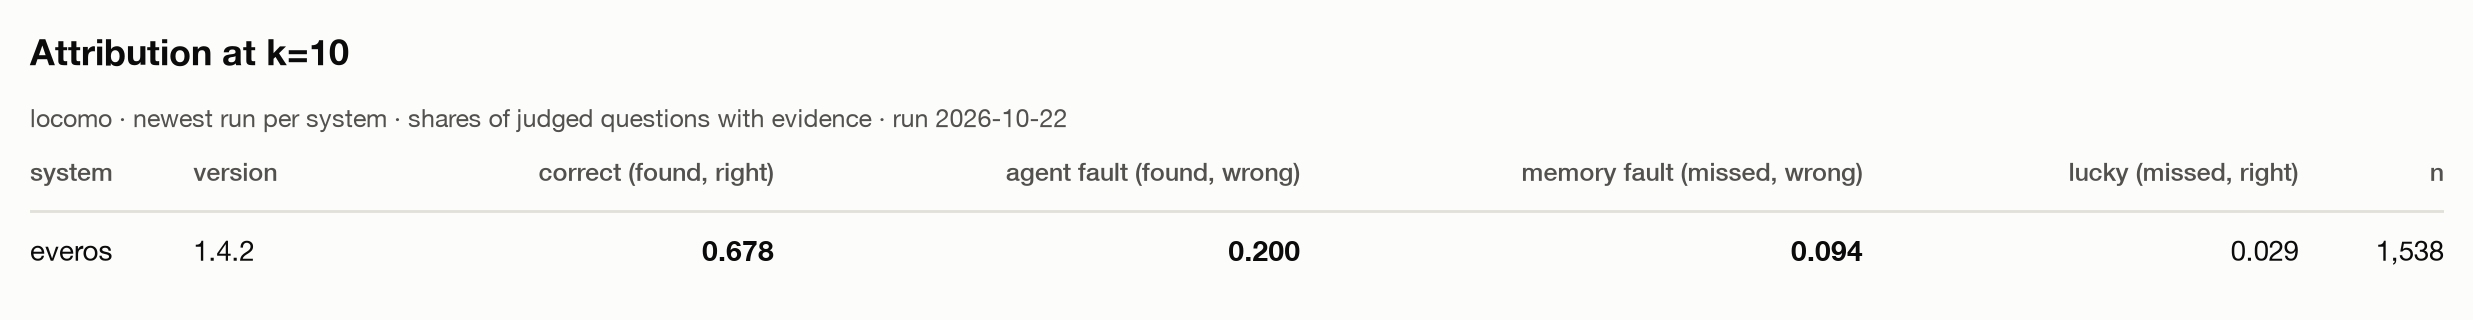
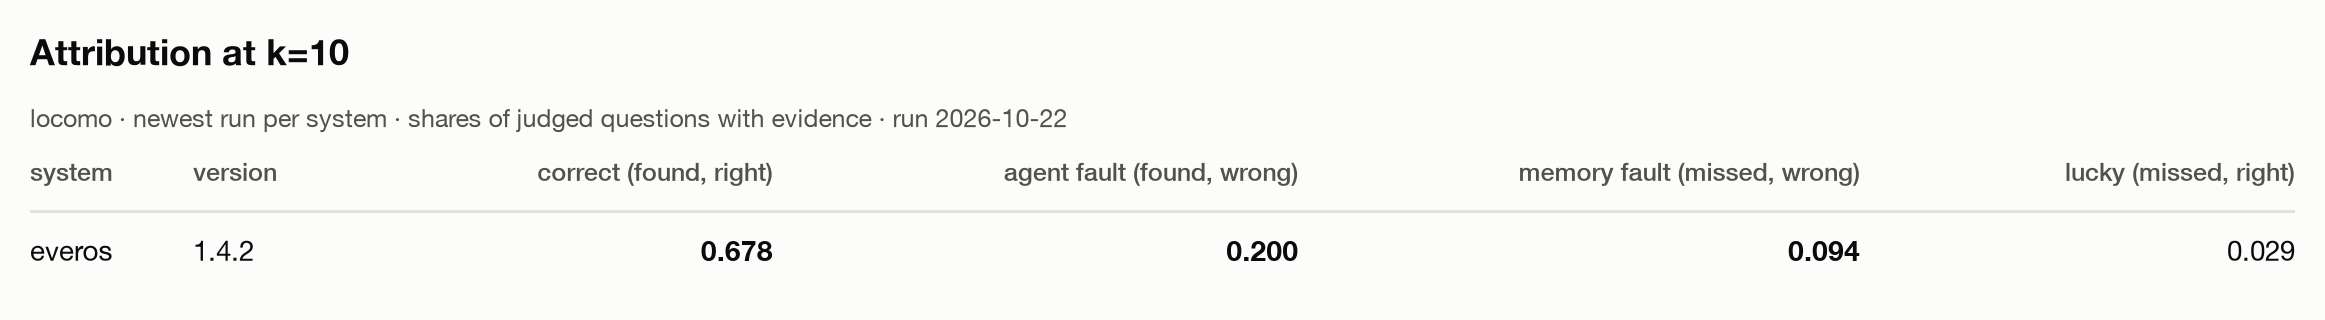
feat: drop the n column from the attribution table

diff --git a/src/amb/reporting/run.py b/src/amb/reporting/run.py
@@ -543,7 +543,7 @@ class ComparisonReport(Report):
     ) -> tuple[list[str], list[list[str]]]:
         """Build the attribution table: a system per row, its four cells as shares.
 
-        Each row sums to 1 over the judged, evidence-labelled questions `n`.
+        Each row sums to 1 over the judged, evidence-labelled questions.
         The best value per column is bold; runs scored before the metric
         existed are left out rather than shown blank.
 
@@ -564,7 +564,6 @@ class ComparisonReport(Report):
             if pick is not None
         }
         header = ["system", "version", *(label for _, label, _ in ATTRIBUTION_COLUMNS)]
-        header.append("n")
         rows = []
         for s in ranked:
             cells = s["attribution"]
@@ -572,7 +571,6 @@ class ComparisonReport(Report):
             for cell, _, _ in ATTRIBUTION_COLUMNS:
                 text = f"{cells[cell]:.3f}"
                 row.append(f"**{text}**" if cells[cell] == best.get(cell) else text)
-            row.append(f"{cells['n']:,}")
             rows.append(row)
         return header, rows
 

diff --git a/tests/reporting_test.py b/tests/reporting_test.py
@@ -392,19 +392,10 @@ def test_attribution_cells_table_bolds_the_best_per_column():
         "agent fault (found, wrong)",
         "memory fault (missed, wrong)",
         "lucky (missed, right)",
-        "n",
     ]
     # most correct first; correct is best high, both faults best low, lucky never bold
-    assert rows[0] == [
-        "alpha",
-        "1.0",
-        "**0.540**",
-        "**0.060**",
-        "0.400",
-        "0.000",
-        "100",
-    ]
-    assert rows[1] == ["beta", "1.0", "0.400", "0.400", "**0.200**", "0.000", "100"]
+    assert rows[0] == ["alpha", "1.0", "**0.540**", "**0.060**", "0.400", "0.000"]
+    assert rows[1] == ["beta", "1.0", "0.400", "0.400", "**0.200**", "0.000"]
     assert report.attribution_cells_table(5) == ([], [])
 
 

diff --git a/RESULTS.md b/RESULTS.md
@@ -2,7 +2,7 @@
 
 Generated by `amb report` from the runs saved under [`runs/`](runs/) — every table, chart, and line of this file. Edits here are overwritten on the next run; change the report definition in `src/amb/reporting/report.py` instead.
 
-Results from commit `a12fb9e`, run 2026-10-23.
+Results from commit `36d1b6d`, run 2026-10-23.
 
 ## Every run
 
